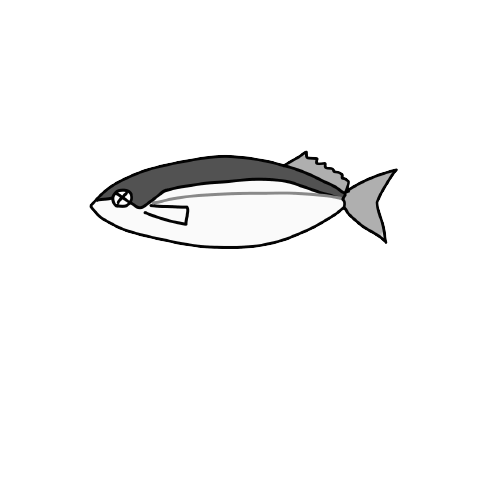
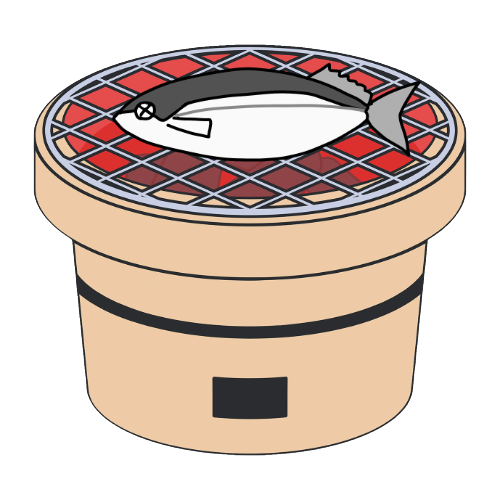
[fix]画像を変更

diff --git a/third.html b/third.html
@@ -13,23 +13,47 @@
       html body {
         background-color: pink;
         font-family: "Inconsolata", monospace;
+        min-width: 100vw;
+        /* height: 100vh; */
+      }
+      header {
+        margin:0;
+        background-color: aqua;
         width: 100vw;
-        height: 100vh;
+        height: 10vh;
+      }
+      header p {
+        text-align: center;
+      }
+      main{
+        width: 100vw;
+        height: 80vh;
+      }
+      footer{
+        height: 10vh;
+      }
+
+      /* タイマーエリア */
+      .time {
+        text-align: center;
+        font-size: 4em;
+        z-index:3;
+      }
+
+
+      /* 魚エリア */
+      .sanma{
+        position: relative;
       }
       img {
         position: absolute;
-      }
-      p {
-        width: 480px;
-        margin: auto;
+        width: clamp(80vw 50vw 60vw )
       }
       #nama {
-        margin-left: 2%;
         animation: fade-out 10000ms ease-in;
         animation-fill-mode: forwards;
         z-index: 2;
       }
-
       @keyframes fade-out {
         0% {
           opacity: 1;
@@ -39,27 +63,11 @@
         }
       }
       #yaki {
-        margin-left: 2%;
         z-index: 1;
       }
-      #shichirin {
-        top: 250px;
-      }
-      .time {
-        text-align: center;
 
-        font-size: 5em;
-      }
-      header {
-        background-color: aqua;
-        padding: 1em;
-      }
-      header p {
-        text-align: center;
-      }
-      .timer {
-        position: relative;
-      }
+
+
     </style>
   </head>
   <body>
@@ -72,14 +80,12 @@
           <p class="counter"></p>
         </div>
       </div>
-
-        <div class="sanma">
-          <p>
-            <img id="shichirin" src="../images/shichirin.png" />
-            <img id="nama" src="./images/nama.png" />
-            <img id="yaki" src="./images/yaki.png" />
-          </p>
-        </div>
+      <div class="sanma">
+        <p>
+          <img id="nama" src="./images/nama.png" />
+          <img id="yaki" src="./images/yaki.png" />
+        </p>
+      </div>
       </div>
     </main>
     <footer></footer>
@@ -105,7 +111,7 @@
           if (progress < 10000) {
             record.textContent = second + "." + millisecond;
           } else if (progress == 10000) {
-            alert((record.textContent = "タイムオーバー"));
+            alert((record.textContent = "焦げました..."));
             clearInterval(a);
           }
         }, 10);
